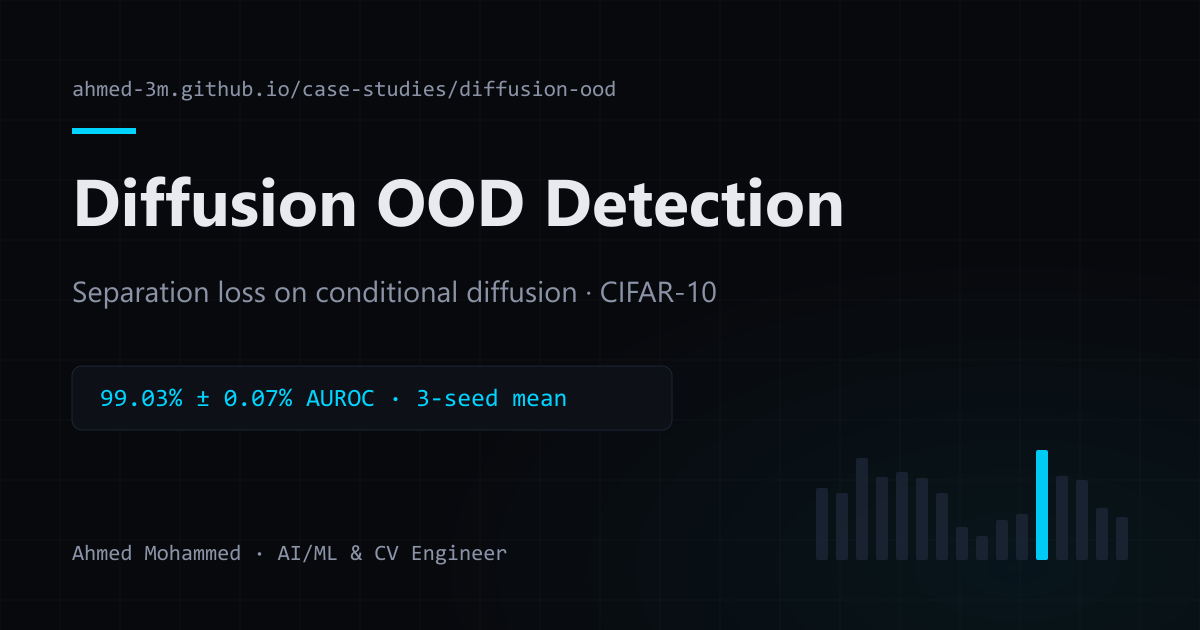
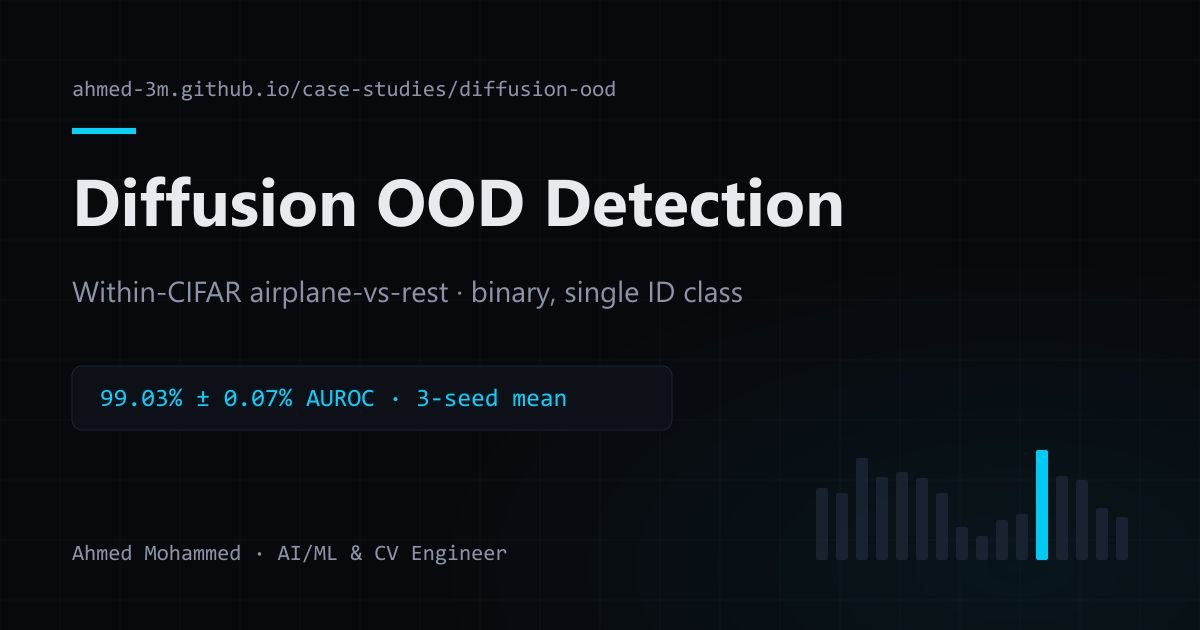
fix: address portfolio review findings and evidence gaps

Changed region(s): [[0.0617, 0.4222, 0.6167, 0.4825]]

diff --git a/src/components/ChatBotPanel.tsx b/src/components/ChatBotPanel.tsx
@@ -229,6 +229,13 @@ export const STARTER_PROMPT_IDS: PromptId[] = [
 ]
 
 export const LOCAL_REPLIES = {
+  industrial: {
+    en: 'The industrial YOLO + conditional diffusion pipeline reached 0.8673 ± 0.0230 AUROC on the public FTI_Zer0P dataset under strict 5-fold cross-validation. Separation loss did not provide a statistically significant improvement after Holm correction. Source: https://ahmed-3m.github.io/Mohammed_Ahmed_Thesis_Diffusion_OOD_Detection.pdf',
+    de: 'Die industrielle Pipeline aus YOLO und konditionaler Diffusion erreichte 0.8673 ± 0.0230 AUROC auf dem öffentlichen FTI_Zer0P-Datensatz mit strenger 5-facher Kreuzvalidierung. Die Separation Loss brachte nach Holm-Korrektur keine statistisch signifikante Verbesserung. Quelle: https://ahmed-3m.github.io/Mohammed_Ahmed_Thesis_Diffusion_OOD_Detection.pdf',
+    fr: 'La pipeline industrielle YOLO + diffusion conditionnelle a atteint 0.8673 ± 0.0230 AUROC sur le jeu public FTI_Zer0P, avec validation croisée stricte en 5 plis. La perte de séparation n’a pas apporté d’amélioration statistiquement significative après correction de Holm. Source : https://ahmed-3m.github.io/Mohammed_Ahmed_Thesis_Diffusion_OOD_Detection.pdf',
+    es: 'El sistema industrial YOLO + difusión condicional alcanzó 0.8673 ± 0.0230 AUROC en el conjunto público FTI_Zer0P con validación cruzada estricta de 5 particiones. La pérdida de separación no produjo una mejora estadísticamente significativa tras la corrección de Holm. Fuente: https://ahmed-3m.github.io/Mohammed_Ahmed_Thesis_Diffusion_OOD_Detection.pdf',
+    ar: 'حقق خط YOLO والانتشار الشرطي الصناعي 0.8673 ± 0.0230 AUROC على مجموعة FTI_Zer0P العامة بتحقق تقاطعي صارم من 5 طيات. لم تقدم خسارة الفصل تحسنًا ذا دلالة إحصائية بعد تصحيح Holm. المصدر: https://ahmed-3m.github.io/Mohammed_Ahmed_Thesis_Diffusion_OOD_Detection.pdf',
+  },
   sihem: {
     en: `Sihem (Telegram @sihem_ai_bot, PWA: https://sihem-pwa.pages.dev/) is Ahmed's proactive AI personal-mentor and habits/daily-routine assistant, accepted into the tech2b incubator in Linz (May 2026–Present). Built on Supabase Edge Functions (Deno/TypeScript) and PostgreSQL with RLS, it features a deterministic generators→arbiter→composer decision engine for non-spammy check-ins, pgvector long-term memory with RAG, multi-provider LLM routing (GLM/Gemini/Groq) with automated failover, Cloudflare MeloTTS voice reminders, and Google Calendar sync.`,
     de: `Sihem (Telegram @sihem_ai_bot, PWA: https://sihem-pwa.pages.dev/) ist Ahmeds proaktiver KI-Mentor-Assistent für Gewohnheiten und Tagesroutinen, aufgenommen in den tech2b-Inkubator in Linz (Mai 2026–heute). Entwickelt auf Supabase Edge Functions (Deno/TypeScript) und PostgreSQL mit RLS, nutzt das System eine deterministische Generatoren→Arbiter→Komponor-Entscheidungsmaschine für adaptive Check-Ins, pgvector-Langzeitgedächtnis mit RAG, Multi-Provider-LLM-Routing (GLM/Gemini/Groq) mit Failover, Cloudflare MeloTTS-Spracherinnerungen und Google-Kalender-Synchronisation.`,
@@ -265,16 +272,22 @@ export const LOCAL_REPLIES = {
     ar: `يشمل الـ stack الخاص بأحمد أبحاث الذكاء الاصطناعي وهندسة الإنتاج:\n- تعلم الآلة: PyTorch وPython ونماذج الانتشار وYOLO وOpenCV وكشف الشذوذ\n- المنتج والبنية: Next.js وReact وTypeScript وConvex وDocker وPostgreSQL وCloudflare\n- الأدوات: Git وWeights & Biases وHugging Face وLinux`,
   },
   achievements: {
-    en: `Key proof points:\n- 99.03% ± 0.07% AUROC (3-seed mean) on within-CIFAR airplane-vs-rest binary OOD split with novel class-conditional separation loss (+6.5pp over 92.52% ± 11.07% baseline; M.Sc. thesis under Prof. Sepp Hochreiter, graded 1)\n- 0.8673 ± 0.0230 AUROC baseline under strict 5-fold CV on the public FTI_Zer0P industrial dataset at PROFACTOR GmbH (internal deployment also tracked 98.4% threshold-dependent binary accuracy, distinct from public AUROC benchmarks)\n- Solo Developer & Project Lead at Sihem (tech2b incubator Linz, proactive AI personal-mentor assistant)\n- Creator of mergeproof (deterministic LLM-free PR merge gate for coding agents)`,
-    de: `Wichtige Meilensteine:\n- 99,03 % ± 0,07 % AUROC (3-Seed-Mittel) auf Within-CIFAR Airplane-vs-Rest Binary OOD Split mit class-conditional separation loss (Masterarbeit bei Prof. Sepp Hochreiter, Note 1)\n- 0,8673 ± 0,0230 AUROC auf dem öffentlichen Datensatz FTI_Zer0P (strenge 5-fache Kreuzvalidierung bei PROFACTOR GmbH; betrieblich zudem 98,4 % schwellenwertabhängige binäre Genauigkeit, nicht mit AUROC gleichzusetzen)\n- Solo-Entwickler & Projektleiter bei Sihem (tech2b Inkubator Linz, proaktiver KI-Mentor-Assistent)\n- Entwickler von mergeproof (deterministisches LLM-freies Merge-Gate für KI-Agents)`,
-    fr: `Principaux résultats :\n- 99,03 % ± 0,07 % AUROC (moyenne 3 seeds) sur split binaire within-CIFAR avec separation loss (mémoire dirigé par Prof. Sepp Hochreiter, note 1)\n- 0,8673 ± 0,0230 AUROC sur le jeu public FTI_Zer0P en validation croisée 5 plis chez PROFACTOR GmbH (métrique opérationnelle interne de 98,4 % dépendante du seuil en déploiement, distincte de l'AUROC)\n- Développeur solo & chef de projet chez Sihem (incubateur tech2b Linz, assistant mentor IA proactif)\n- Créateur de mergeproof (merge-gate déterministe sans LLM pour agents de code)`,
-    es: `Logros destacados:\n- 99.03% ± 0.07% AUROC (media 3 seeds) en split binario within-CIFAR con separation loss (tesis con Prof. Sepp Hochreiter, nota 1)\n- 0.8673 ± 0.0230 AUROC en el dataset público FTI_Zer0P con validación cruzada 5-fold en PROFACTOR GmbH (en operación también se midió 98.4% de precisión binaria dependiente de umbral, distinta al AUROC público)\n- Desarrollador en solitario y líder de proyecto en Sihem (incubadora tech2b Linz, asistente mentor IA proactivo)\n- Creador de mergeproof (compuerta determinista sin LLM para PRs de agentes)`,
-    ar: `أبرز الإنجازات:\n- 99.03% ± 0.07% AUROC (متوسط 3 بذور) في كشف OOD على تقسيم within-CIFAR الثنائي مع separation loss (رسالة الماجستير بإشراف Prof. Sepp Hochreiter، تقدير 1)\n- 0.8673 ± 0.0230 AUROC على مجموعة FTI_Zer0P العامة بتحقق تقاطعي 5-fold لدى PROFACTOR GmbH (كما سُجّل مقياس تشغيلي داخلي بنسبة 98.4% يعتمد على العتبة، وهو منفصل عن مقياس AUROC العام)\n- مطور منفرد وقائد مشروع في Sihem (حاضنة tech2b لينز، مساعد موجه بالذكاء الاصطناعي استباقي)\n- مطوّر mergeproof (بوابة دمج حتمية بدون LLM لوكلاء البرمجة)`,
+    en: `Key proof points:\n- 99.03% ± 0.07% AUROC (3-seed mean) on within-CIFAR airplane-vs-rest binary OOD split with novel class-conditional separation loss (+6.5pp over 92.52% ± 11.07% baseline; M.Sc. thesis under Prof. Sepp Hochreiter, graded 1)\n- 0.8673 ± 0.0230 AUROC baseline under strict 5-fold CV on the public FTI_Zer0P industrial dataset at PROFACTOR GmbH \n- Solo Developer & Project Lead at Sihem (tech2b incubator Linz, proactive AI personal-mentor assistant)\n- Creator of mergeproof (deterministic LLM-free PR merge gate for coding agents)`,
+    de: `Wichtige Meilensteine:\n- 99,03 % ± 0,07 % AUROC (3-Seed-Mittel) auf Within-CIFAR Airplane-vs-Rest Binary OOD Split mit class-conditional separation loss (Masterarbeit bei Prof. Sepp Hochreiter, Note 1)\n- 0,8673 ± 0,0230 AUROC auf dem öffentlichen Datensatz FTI_Zer0P (strenge 5-fache Kreuzvalidierung bei PROFACTOR GmbH)\n- Solo-Entwickler & Projektleiter bei Sihem (tech2b Inkubator Linz, proaktiver KI-Mentor-Assistent)\n- Entwickler von mergeproof (deterministisches LLM-freies Merge-Gate für KI-Agents)`,
+    fr: `Principaux résultats :\n- 99,03 % ± 0,07 % AUROC (moyenne 3 seeds) sur split binaire within-CIFAR avec separation loss (mémoire dirigé par Prof. Sepp Hochreiter, note 1)\n- 0,8673 ± 0,0230 AUROC sur le jeu public FTI_Zer0P en validation croisée 5 plis chez PROFACTOR GmbH \n- Développeur solo & chef de projet chez Sihem (incubateur tech2b Linz, assistant mentor IA proactif)\n- Créateur de mergeproof (merge-gate déterministe sans LLM pour agents de code)`,
+    es: `Logros destacados:\n- 99.03% ± 0.07% AUROC (media 3 seeds) en split binario within-CIFAR con separation loss (tesis con Prof. Sepp Hochreiter, nota 1)\n- 0.8673 ± 0.0230 AUROC en el dataset público FTI_Zer0P con validación cruzada 5-fold en PROFACTOR GmbH \n- Desarrollador en solitario y líder de proyecto en Sihem (incubadora tech2b Linz, asistente mentor IA proactivo)\n- Creador de mergeproof (compuerta determinista sin LLM para PRs de agentes)`,
+    ar: `أبرز الإنجازات:\n- 99.03% ± 0.07% AUROC (متوسط 3 بذور) في كشف OOD على تقسيم within-CIFAR الثنائي مع separation loss (رسالة الماجستير بإشراف Prof. Sepp Hochreiter، تقدير 1)\n- 0.8673 ± 0.0230 AUROC على مجموعة FTI_Zer0P العامة بتحقق تقاطعي 5-fold لدى PROFACTOR GmbH \n- مطور منفرد وقائد مشروع في Sihem (حاضنة tech2b لينز، مساعد موجه بالذكاء الاصطناعي استباقي)\n- مطوّر mergeproof (بوابة دمج حتمية بدون LLM لوكلاء البرمجة)`,
   },
 } satisfies Record<string, TranslationMap>
 
 export function getLocalReply(prompt: string, lang: Language): string | null {
-  const text = prompt.toLowerCase()
+  const text = prompt.trim().toLowerCase()
+  const isIndustrialStarter = Object.values(PROMPT_LIBRARY.industrial_result).some(
+    (starter) => starter.toLowerCase() === text,
+  )
+  if (isIndustrialStarter || /industrial|industriell|industriel|inkjet|profactor|fti[_-]?zer0p|الصناعي/i.test(text)) {
+    return translateValue(lang, LOCAL_REPLIES.industrial)
+  }
   if (/\b(sihem|mentor|habit|routine|telegram|tech2b|pgvector)\b/i.test(text)) {
     return translateValue(lang, LOCAL_REPLIES.sihem)
   }

diff --git a/src/lib/blog-posts-meta.ts b/src/lib/blog-posts-meta.ts
@@ -41,7 +41,7 @@ export const blogPostsMeta: BlogPostMeta[] = [
     "slug": "ood-diffusion-thesis",
     "date": "2026-07-12",
     "ogImage": "/og-diffusion-ood.png",
-    "lastModified": "2026-04-25",
+    "lastModified": "2026-11-13",
     "citation": {
       "title": "Conditional Diffusion Models as Generative Classifiers for Out-of-Distribution Detection in Inkjet Print Quality Control",
       "date": "2026-07-12",
@@ -189,7 +189,7 @@ export const blogPostsMeta: BlogPostMeta[] = [
     "slug": "diffusion-models-anomaly-detection",
     "date": "2024-11-20",
     "ogImage": "/og-diffusion-models-anomaly-detection.png",
-    "lastModified": "2026-04-25",
+    "lastModified": "2026-11-13",
     "translations": {
       "en": {
         "title": "Diffusion Models for Industrial Defect Detection at PROFACTOR GmbH",
@@ -205,7 +205,7 @@ export const blogPostsMeta: BlogPostMeta[] = [
         "faq": [
           {
             "question": "What result did the industrial system achieve?",
-            "answer": "On the public FTI_Zer0P benchmark, the strict 5-fold CV baseline reached 0.8673 +/- 0.0230 AUROC. Separately, an internal production deployment tracked 98.4% threshold-dependent binary classification accuracy (operational deployment metric, not comparable to public AUROC)."
+            "answer": "On the public FTI_Zer0P benchmark, the strict 5-fold CV baseline reached 0.8673 +/- 0.0230 AUROC."
           },
           {
             "question": "What was the architecture?",
@@ -231,7 +231,7 @@ export const blogPostsMeta: BlogPostMeta[] = [
         "faq": [
           {
             "question": "Welches Ergebnis erreichte das industrielle System?",
-            "answer": "Auf dem öffentlichen FTI_Zer0P Benchmark lag die strenge 5-fold-CV Baseline bei 0.8673 +/- 0.0230 AUROC. Davon getrennt erreichte das interne Produktions-Setup schwellenwertabhängig 98.4% binäre Defektklassifikationsgenauigkeit (keine öffentliche AUROC-Metrik)."
+            "answer": "Auf dem öffentlichen FTI_Zer0P Benchmark lag die strenge 5-fold-CV Baseline bei 0.8673 +/- 0.0230 AUROC."
           },
           {
             "question": "Wie sah die Architektur aus?",
@@ -257,7 +257,7 @@ export const blogPostsMeta: BlogPostMeta[] = [
         "faq": [
           {
             "question": "Quel résultat le système industriel a-t-il obtenu ?",
-            "answer": "Sur le benchmark public FTI_Zer0P, la baseline en validation croisée stricte à 5 plis a atteint 0.8673 +/- 0.0230 AUROC. Séparément, le déploiement interne a mesuré 98.4% de précision binaire dépendante du seuil (métrique opérationnelle, non comparable à l'AUROC public)."
+            "answer": "Sur le benchmark public FTI_Zer0P, la baseline en validation croisée stricte à 5 plis a atteint 0.8673 +/- 0.0230 AUROC."
           },
           {
             "question": "Quelle était l'architecture ?",
@@ -283,7 +283,7 @@ export const blogPostsMeta: BlogPostMeta[] = [
         "faq": [
           {
             "question": "¿Qué resultado logró el sistema industrial?",
-            "answer": "En el benchmark público FTI_Zer0P, la base con validación cruzada estricta de 5 folds alcanzó 0.8673 +/- 0.0230 AUROC. Por separado, en producción interna se registró 98.4% de precisión binaria dependiente del umbral (métrica operativa, no comparable al AUROC público)."
+            "answer": "En el benchmark público FTI_Zer0P, la base con validación cruzada estricta de 5 folds alcanzó 0.8673 +/- 0.0230 AUROC."
           },
           {
             "question": "¿Cuál era la arquitectura?",
@@ -309,7 +309,7 @@ export const blogPostsMeta: BlogPostMeta[] = [
         "faq": [
           {
             "question": "ما النتيجة التي حققها النظام الصناعي؟",
-            "answer": "على معيار FTI_Zer0P العام وصلت baseline مع تحقق تقاطعي صارم من 5 طيات إلى 0.8673 +/- 0.0230 AUROC. وبشكل منفصل، سجّل التشغيل الداخلي دقة تصنيف ثنائية 98.4% تعتمد على العتبة (مقياس تشغيلي داخلي غير قابل للمقارنة مع AUROC العام)."
+            "answer": "على معيار FTI_Zer0P العام وصلت baseline مع تحقق تقاطعي صارم من 5 طيات إلى 0.8673 +/- 0.0230 AUROC."
           },
           {
             "question": "ما هي البنية المستخدمة؟",

diff --git a/src/components/Projects.tsx b/src/components/Projects.tsx
@@ -11,6 +11,20 @@ const copy = {
   caseStudyLink: { en: 'Case study', de: 'Fallstudie', fr: 'Étude de cas', es: 'Caso de estudio', ar: 'دراسة حالة' },
   thesisPdf: { en: 'Thesis PDF', de: 'Thesis PDF', fr: 'PDF mémoire', es: 'PDF tesis', ar: 'PDF الرسالة' },
   code: { en: 'Code', de: 'Code', fr: 'Code', es: 'Código', ar: 'الكود' },
+  oodMetric: {
+    en: ' ± 0.07% mean AUROC (3 seeds)',
+    de: ' ± 0.07% mittlerer AUROC (3 Seeds)',
+    fr: ' ± 0.07% AUROC moyenne (3 graines)',
+    es: ' ± 0.07% AUROC media (3 semillas)',
+    ar: ' ± 0.07% متوسط AUROC (3 بذور)',
+  },
+  inkjetMetric: {
+    en: ' ± 0.0230 AUROC (5-fold CV)',
+    de: ' ± 0.0230 AUROC (5-fache Kreuzvalidierung)',
+    fr: ' ± 0.0230 AUROC (validation croisée en 5 plis)',
+    es: ' ± 0.0230 AUROC (validación cruzada de 5 particiones)',
+    ar: ' ± 0.0230 AUROC (تحقق تقاطعي من 5 طيات)',
+  },
   thesis: { en: "Master's Thesis · JKU Linz · Graded 1", de: 'Masterarbeit · JKU Linz · Note 1', fr: 'Mémoire M.Sc. · JKU Linz · Note 1', es: 'Tesis M.Sc. · JKU Linz · Nota 1', ar: 'رسالة الماجستير · JKU لينز · تقدير 1' },
   track2Eyebrow: { en: "Master's Thesis Track 2 · Industrial CV", de: 'Masterarbeit Track 2 · Industrial CV', fr: 'Mémoire Track 2 · Vision industrielle', es: 'Tesis Track 2 · Visión industrial', ar: 'المسار 2 للرسالة · رؤية صناعية' },
   oodTitle: { en: 'DiffusionOOD — OOD Detection Framework', de: 'DiffusionOOD — OOD-Erkennungsframework', fr: 'DiffusionOOD — Détection OOD', es: 'DiffusionOOD — Detección OOD', ar: 'DiffusionOOD — إطار كشف الخارج عن التوزيع' },
@@ -126,7 +140,7 @@ export default function Projects() {
               </div>
             </div>
             <div className="cd-proj-metric-big">
-              <div className="cd-pc-metric" style={{ marginTop: 0 }}>99.03%<span> ± 0.07% Avg AUROC (3 seeds)</span></div>
+              <div className="cd-pc-metric" style={{ marginTop: 0 }}>99.03%<span>{t(copy.oodMetric)}</span></div>
               <div className="cd-proj-actions" style={{ display: 'flex', gap: 12, marginTop: 12, flexWrap: 'wrap' }}>
                 <Link href="/case-studies/diffusion-ood/" className="cd-proj-link" style={{ fontSize: 12 }}>{t(copy.caseStudyLink)} &rarr;</Link>
                 <a href="https://github.com/ahmed-3m/DiffusionOOD" target="_blank" rel="noopener noreferrer" className="cd-proj-link" style={{ fontSize: 12 }}>{t(copy.code)} &rarr;</a>
@@ -139,7 +153,7 @@ export default function Projects() {
             <div className="cd-pc-eyebrow">{t(copy.track2Eyebrow)}</div>
             <div className="cd-pc-title">{t(copy.inkjetTitle)}</div>
             <div className="cd-pc-desc">{t(copy.inkjetDesc)}</div>
-            <div className="cd-pc-metric">0.8673<span> ± 0.0230 AUROC (5-Fold CV)</span></div>
+            <div className="cd-pc-metric">0.8673<span>{t(copy.inkjetMetric)}</span></div>
             <div style={{ display: 'flex', gap: 12, marginTop: 12, flexWrap: 'wrap' }}>
               <a href="https://github.com/ahmed-3m/InkjetOOD" target="_blank" rel="noopener noreferrer" className="cd-proj-link" style={{ fontSize: 12 }}>{t(copy.code)} &rarr;</a>
               <Link href="/case-studies/inkjet-ood/" className="cd-proj-link" style={{ fontSize: 12 }}>{t(copy.caseStudy)} &rarr;</Link>

diff --git a/src/components/OodDemo.tsx b/src/components/OodDemo.tsx
@@ -66,6 +66,27 @@ const DATASET_LABELS: Record<OodDatasetKey, TranslationMap> = {
 }
 
 const copy = {
+  separationEquationLabel: {
+    en: 'Eq. 3.23 (separation loss):',
+    de: 'Gl. 3.23 (Separationsverlust):',
+    fr: 'Éq. 3.23 (perte de séparation) :',
+    es: 'Ec. 3.23 (pérdida de separación):',
+    ar: 'المعادلة 3.23 (خسارة الفصل):',
+  },
+  scoreEquationLabel: {
+    en: 'Eq. 3.3 (OOD score):',
+    de: 'Gl. 3.3 (OOD-Score):',
+    fr: 'Éq. 3.3 (score OOD) :',
+    es: 'Ec. 3.3 (puntuación OOD):',
+    ar: 'المعادلة 3.3 (درجة OOD):',
+  },
+  meanErrorDifference: {
+    en: 'Mean error difference',
+    de: 'Mittlere Fehlerdifferenz',
+    fr: "Différence moyenne d’erreur",
+    es: 'Diferencia media del error',
+    ar: 'متوسط فرق الخطأ',
+  },
   eyebrow: {
     en: '// INTERACTIVE THESIS LAB · JKU LINZ (GRADE 1.0)',
     de: '// INTERAKTIVES THESIS-LABOR · JKU LINZ (NOTE 1,0)',
@@ -375,12 +396,12 @@ export default function OodDemo() {
           }}
         >
           <div>
-            <strong style={{ color: 'var(--cd-accent)' }}>Eq. 3.23 (Sep. Loss):</strong>{' '}
-            L_sep = −‖ε_θ(x_t, t, c=0) − ε_θ(x_t, t, c=1)‖²
+            <strong style={{ color: 'var(--cd-accent)' }}>{t(copy.separationEquationLabel)}</strong>{' '}
+            <bdi dir="ltr">L_sep = −‖ε_θ(x_t, t, c=0) − ε_θ(x_t, t, c=1)‖²</bdi>
           </div>
           <div>
-            <strong style={{ color: 'var(--cd-success)' }}>Eq. 3.3 (OOD Score):</strong>{' '}
-            s_OOD(x) = ê₀(x) − ê₁(x) ≥ τ ⇒ OOD
+            <strong style={{ color: 'var(--cd-success)' }}>{t(copy.scoreEquationLabel)}</strong>{' '}
+            <bdi dir="ltr">s_OOD(x) = ê₀(x) − ê₁(x) ≥ τ ⇒ OOD</bdi>
           </div>
         </div>
       </div>
@@ -886,10 +907,10 @@ export default function OodDemo() {
                   c=0: <strong>{activeTimestep.idC0Mean.toFixed(4)}</strong> · c=1: <strong>{activeTimestep.idC1Mean.toFixed(4)}</strong>
                 </div>
                 <div style={{ fontFamily: 'var(--font-mono)', fontSize: 11, color: 'var(--cd-success)', marginTop: 2 }}>
-                  Mean ê₀ − ê₁ = {(() => {
+                  {t(copy.meanErrorDifference)}: <bdi dir="ltr">ê₀ − ê₁ = {(() => {
                     const diff = activeTimestep.idC0Mean - activeTimestep.idC1Mean
                     return `${diff >= 0 ? '+' : ''}${diff.toFixed(5)}`
-                  })()}
+                  })()}</bdi>
                 </div>
               </div>
 
@@ -899,10 +920,10 @@ export default function OodDemo() {
                   c=0: <strong>{activeTimestep.oodC0Mean.toFixed(4)}</strong> · c=1: <strong>{activeTimestep.oodC1Mean.toFixed(4)}</strong>
                 </div>
                 <div style={{ fontFamily: 'var(--font-mono)', fontSize: 11, color: 'var(--cd-warn)', marginTop: 2 }}>
-                  Mean ê₀ − ê₁ = {(() => {
+                  {t(copy.meanErrorDifference)}: <bdi dir="ltr">ê₀ − ê₁ = {(() => {
                     const diff = activeTimestep.oodC0Mean - activeTimestep.oodC1Mean
                     return `${diff >= 0 ? '+' : ''}${diff.toFixed(5)}`
-                  })()}
+                  })()}</bdi>
                 </div>
               </div>
 

diff --git a/src/components/TrustStrip.tsx b/src/components/TrustStrip.tsx
@@ -25,11 +25,11 @@ const copy = {
     ar: 'PROFACTOR / FTI_Zer0P',
   },
   result: {
-    en: '99.03% ± 0.07% AUROC (binary, 3-seed mean)',
-    de: '99.03% ± 0.07% AUROC (binär, 3-Seed-Mittel)',
-    fr: '99.03% ± 0.07% AUROC (binaire, moy. 3 seeds)',
-    es: '99.03% ± 0.07% AUROC (binario, media 3 seeds)',
-    ar: '99.03% ± 0.07% AUROC (ثنائي، متوسط 3 بذور)',
+    en: '99.03% ± 0.07% AUROC (CIFAR-10 airplane-vs-rest, single ID class, 3-seed mean)',
+    de: '99.03% ± 0.07% AUROC (CIFAR-10 Flugzeug-vs-Rest, eine ID-Klasse, 3-Seed-Mittel)',
+    fr: '99.03% ± 0.07% AUROC (CIFAR-10 avion-vs-reste, une classe ID, moyenne sur 3 graines)',
+    es: '99.03% ± 0.07% AUROC (CIFAR-10 avión-vs-resto, una clase ID, media de 3 semillas)',
+    ar: '99.03% ± 0.07% AUROC (CIFAR-10 طائرة مقابل البقية، فئة ID واحدة، متوسط 3 بذور)',
   },
   location: {
     en: 'JKU Linz, Austria',

diff --git a/src/lib/blog-posts.ts b/src/lib/blog-posts.ts
@@ -34,7 +34,7 @@ const blogPosts: BlogPost[] = [
     slug: 'ood-diffusion-thesis',
     date: '2026-07-12',
     ogImage: '/og-diffusion-ood.png',
-    lastModified: '2026-04-25',
+    lastModified: '2026-11-13',
     citation: {
       title:
         'Conditional Diffusion Models as Generative Classifiers for Out-of-Distribution Detection in Inkjet Print Quality Control',
@@ -463,7 +463,7 @@ loss = L_diffusion + lambda * L_separation
     slug: 'diffusion-models-anomaly-detection',
     date: '2024-11-20',
     ogImage: '/og-diffusion-models-anomaly-detection.png',
-    lastModified: '2026-04-25',
+    lastModified: '2026-11-13',
     translations: {
       en: {
         title: 'Diffusion Models for Industrial Defect Detection at PROFACTOR GmbH',

diff --git a/src/lib/case-studies.ts b/src/lib/case-studies.ts
@@ -19,7 +19,7 @@ export type CaseStudy = {
 export const caseStudies: CaseStudy[] = [
   {
     slug: 'diffusion-ood',
-    lastModified: '2026-11-07',
+    lastModified: '2026-11-13',
     title: {
       en: 'DiffusionOOD: Class-Conditional Separation Loss for Out-of-Distribution Detection',
       de: 'DiffusionOOD: Klassenkonditionale Separation Loss für OOD-Erkennung',

diff --git a/specs/005-portfolio-credibility-and-mobile/CODEX-REVIEW.md b/specs/005-portfolio-credibility-and-mobile/CODEX-REVIEW.md
@@ -1,0 +1,24 @@
+# Codex review follow-up — 2026-11-13
+
+Reviewed PR #205 at d56e591 and addressed the independent review plus all four inline review threads.
+
+## Corrections
+
+- Removed the unqualified benchmark number from the homepage share card. The diffusion card now names the within-CIFAR airplane-vs-rest binary split and single ID class beside its three-seed result. Regenerated and visually inspected both 1200 × 630 PNGs.
+- Localized the changed project metric labels and explorer equation/mean-error labels in all five languages. Isolated mathematical expressions for RTL rendering.
+- Updated the modified dates of the edited diffusion case study and the two edited research posts, keeping the full-post and metadata catalogs synchronized.
+- Removed the unused, superseded separation-gap-clean.png illustration. This supersedes the initial implementation report's retain/delete decision.
+- Added an industrial-result local answer in five languages. Exact translated starter prompts and industrial-domain questions now reach the same fallback used by both no-provider and provider-failure paths.
+- Corrected the industrial benchmark citation in llms-full.txt to point to the thesis; retained the early report under an explicit 2024 negative-result label.
+- Limited the edited industrial FAQ metadata, fallback answers, and extended AI-recall text to publicly documented benchmark evidence.
+
+## Verification
+
+- Industrial starter fallback: passed for en/de/fr/es/ar, including the public benchmark value, scope, negative transfer result, and thesis source.
+- Routing regression checks: public industrial AUROC question routes to the industrial answer; thesis, Sihem, contact, and unrelated-query behavior preserved.
+- npm run lint: 0 errors, 9 existing image warnings.
+- npm run typecheck: passed.
+- News catalog self-test: passed (200 items).
+- Worker proxy self-test: passed.
+- Local production build: compilation and type checking passed; Windows sandbox EPERM directory-write errors prevented completing static export. This is not recorded as a successful local build.
+- Required checks must pass on the final PR head in GitHub Actions before merge. No fresh Lighthouse score is claimed by this follow-up.
